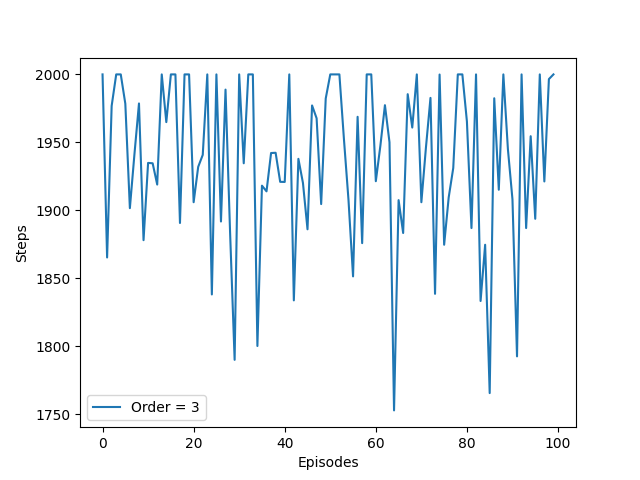
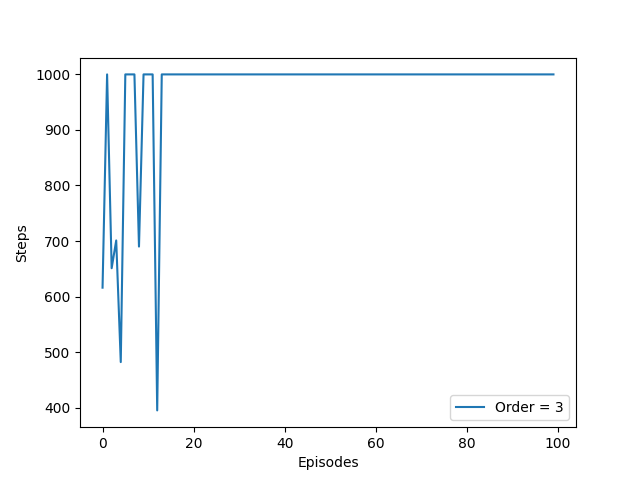
...

diff --git a/PA3/temp.py b/PA3/temp.py
@@ -19,12 +19,12 @@ class SarsaLambda:
         # set up basis function
         all_consts = list(prod(range(order + 1), repeat=self.dims))
         all_consts.remove(all_consts[0])
-        self.basis = [lambda _: 0]
+        self.basis = [lambda _: 1]
         for c in all_consts:
             c = np.array(c)
             self.basis.append(lambda s: np.cos(np.pi * np.dot(s, c)))
             self.alphas.append(alpha / np.linalg.norm(c))
-        self.alphas = np.array(self.alphas)
+        self.alphas = np.array([self.alphas] * len(model.actions)).T
 
         self.weights = np.zeros((self.num_bases, len(model.actions)))
 
@@ -42,37 +42,36 @@ class SarsaLambda:
 
     # estimate the value of given state and action
     def value(self, S, A: int) -> float:
-        if self.model.isTerminal(S):
-            return 0.0
+        # if self.model.isTerminal(S):
+        #     return 0.0
 
         phi = np.array([feature(self.normalize(S)) for feature in self.basis])
-        return float(np.dot(self.weights[:, 0], phi))
+        return float(np.dot(self.weights[:, self.model.actions.index(A)], phi))
 
     def playEpisode(self) -> int:
         self.model.reset()
         S = self.model.getState()
-        A = self.getAction(S)
-        phi = np.array([feature(self.normalize(S)) for feature in self.basis])
         z = np.zeros((self.num_bases, len(self.model.actions)))
-        Q_old = 0
+        A = self.getAction(S)
 
         for steps in range(self.max_steps):
-            A_ind = 0  # self.model.actions.index(A)
+            A_ind = self.model.actions.index(A)
+            phi = np.array([feature(self.normalize(S)) for feature in self.basis])
+
+            z[:, A_ind] += phi
             R, S_p = self.model.update(A)
-            A_p = self.getAction(S_p)
-            Q = self.value(S, A)
-            Q_p = self.value(S_p, A_p)
-            z[:, A_ind] = self.gamma * self.lam * z[:, A_ind] +\
-                          (1 - self.gamma * self.lam * np.dot(z[:, A_ind], np.multiply(self.alphas, phi))) * phi
-            self.weights[:, A_ind] +=\
-                (R + self.gamma * Q_p - Q_old) * np.multiply(self.alphas, z[:, A_ind]) -\
-                (Q - Q_old) * np.multiply(self.alphas, phi)
-            Q_old = Q_p
-            phi = np.array([feature(self.normalize(S_p)) for feature in self.basis])
-            A = A_p
+            delta = R - self.value(S, A)
 
             if self.model.isTerminal():
+                self.weights += delta * z * self.alphas
                 return steps + 1
+
+            A_p = self.getAction(S_p)
+            delta += self.gamma * self.value(S_p, A_p)
+            self.weights += delta * z * self.alphas
+            z *= self.gamma * self.lam
+            S = S_p
+            A = A_p
 
         return self.max_steps
 

diff --git a/PA3/test.py b/PA3/test.py
@@ -8,13 +8,13 @@ from tqdm import tqdm
 
 from MountainCar import MountainCar
 # from SarsaLambda import SarsaLambda as sl
-from temp2 import SarsaLambda as sl
+from temp import SarsaLambda as sl
 
 LAMBDA = 0.9
 ALPHA = 0.001
 GAMMA = 1.0
 EPSILON = 0.0
-EPISODES = 50
+EPISODES = 100
 RUNS = 1  # max(cpu_count() - 1, 1)
 MAX_STEPS = 1000
 
@@ -72,8 +72,6 @@ def main():
         with tqdm_joblib(tqdm(desc="Fourier SARSA(Lambda)", total=len(orders) * RUNS, ncols=100)):
             for i in range(len(orders)):
                 results = parallel(joblib.delayed(learn)(orders[i], grid_size, run) for run in range(RUNS))
-                print(results)
-                print([r[3] for r in results])
                 steps[i, :] = np.sum([r[0] for r in results], axis=0) / RUNS
                 x[i, :] = np.sum([r[1] for r in results], axis=0) / RUNS
                 y[i, :] = np.sum([r[2] for r in results], axis=0) / RUNS

diff --git a/PA3/temp2.py b/PA3/temp2.py
@@ -30,6 +30,7 @@ def createalphas(basealpha, fourier_order, observations_dim):  # different alpha
     d = np.expand_dims(d, axis=1)
     alphavec = np.tile(d, num_actions)
     alphavec = np.reshape(alphavec, (-1, num_actions))
+    print(alphavec)
     return alphavec
 
 
@@ -60,7 +61,6 @@ def updateweights(w, e, alphavec, delta):
 
 
 def epsilon_greedy(state, epsilon, w):  # pass a state where agent is eps-greedy, weight matrix w
-
     temp = np.zeros([1, num_actions])
     for k in range(num_actions):
         temp[0, k] = computevalue(w, k, state)

diff --git a/PA3/MountainCar.py b/PA3/MountainCar.py
@@ -19,7 +19,7 @@ class MountainCar:
         self.v = state[1]
 
     def update(self, action: int) -> (int, [float, float]):
-        self.v += 0.001 * action - 0.0025 * np.cos(np.pi * self.x)
+        self.v += 0.001 * action - 0.0025 * np.cos(3 * self.x)
         self.x += self.v
 
         if self.x < self.min_maxes[0]:
